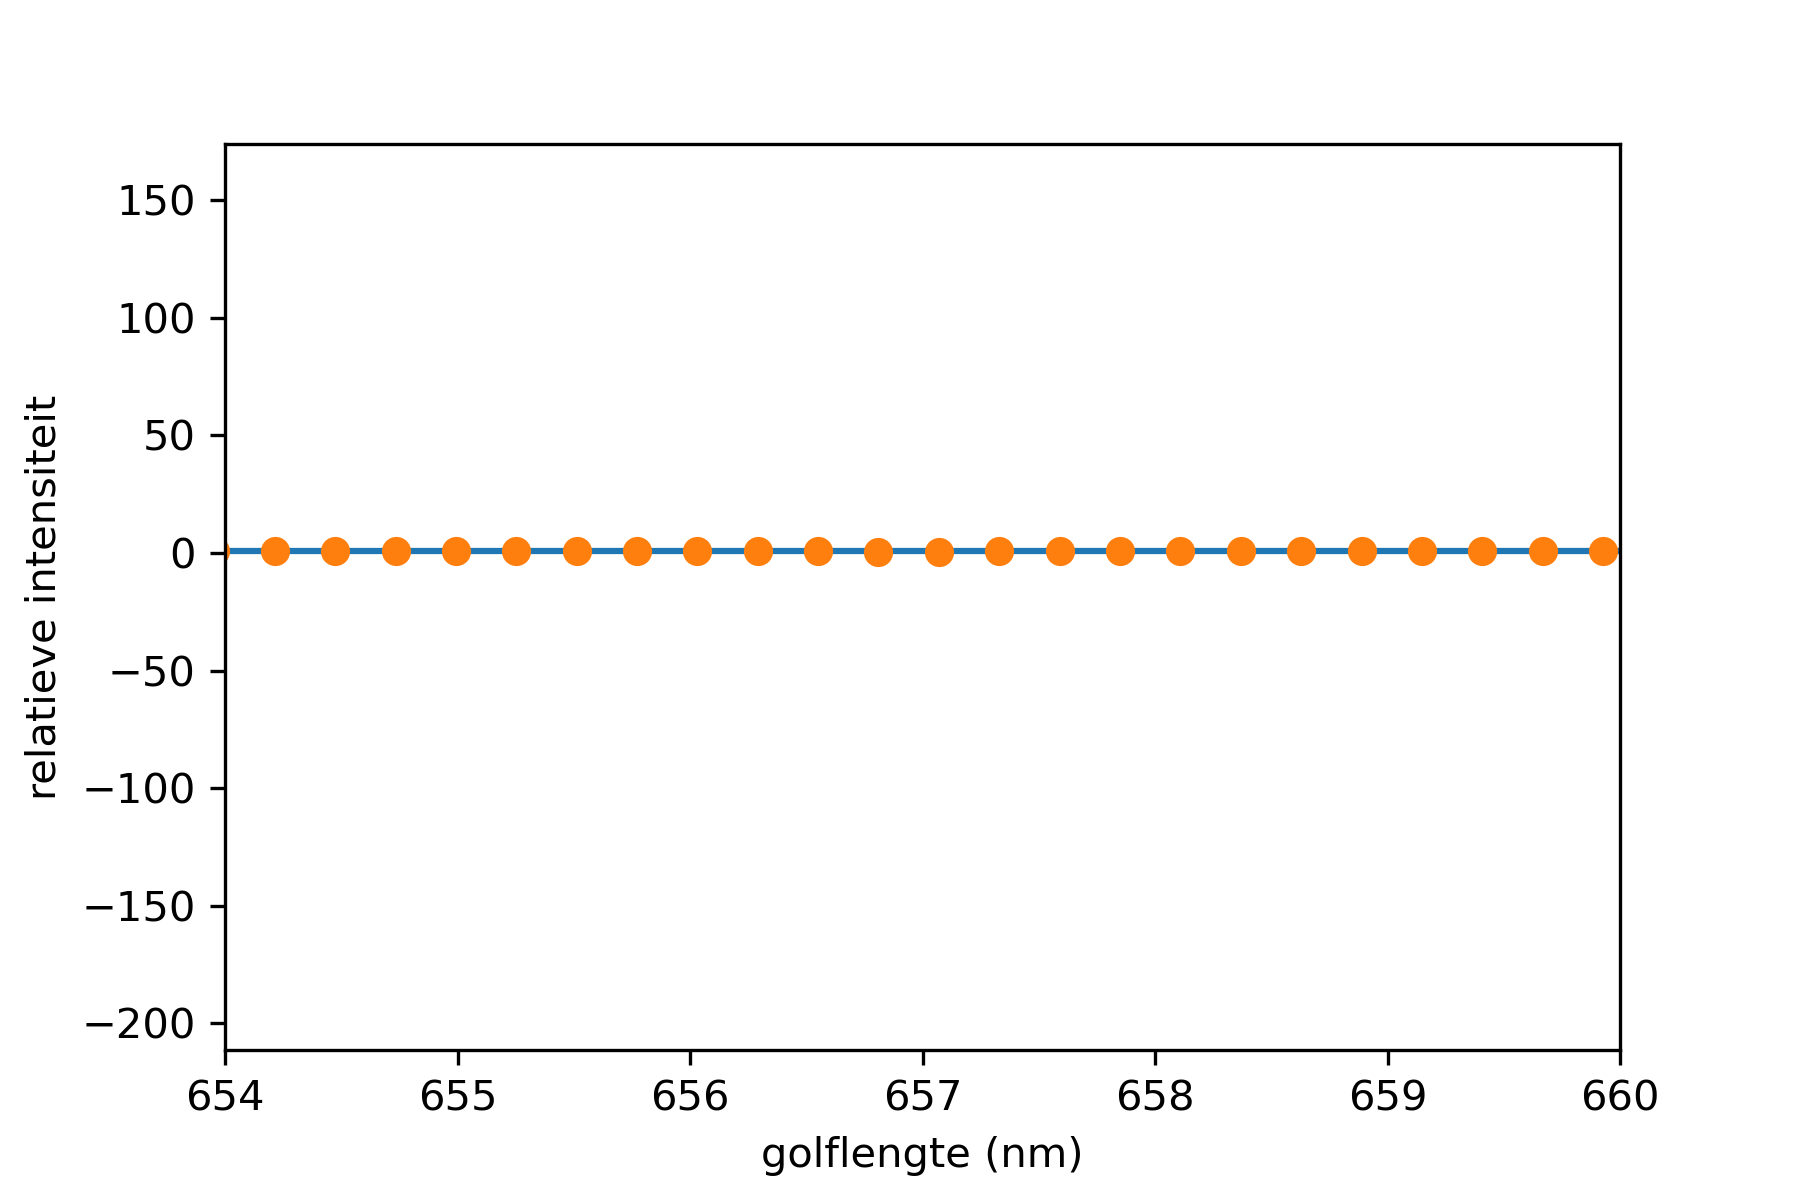
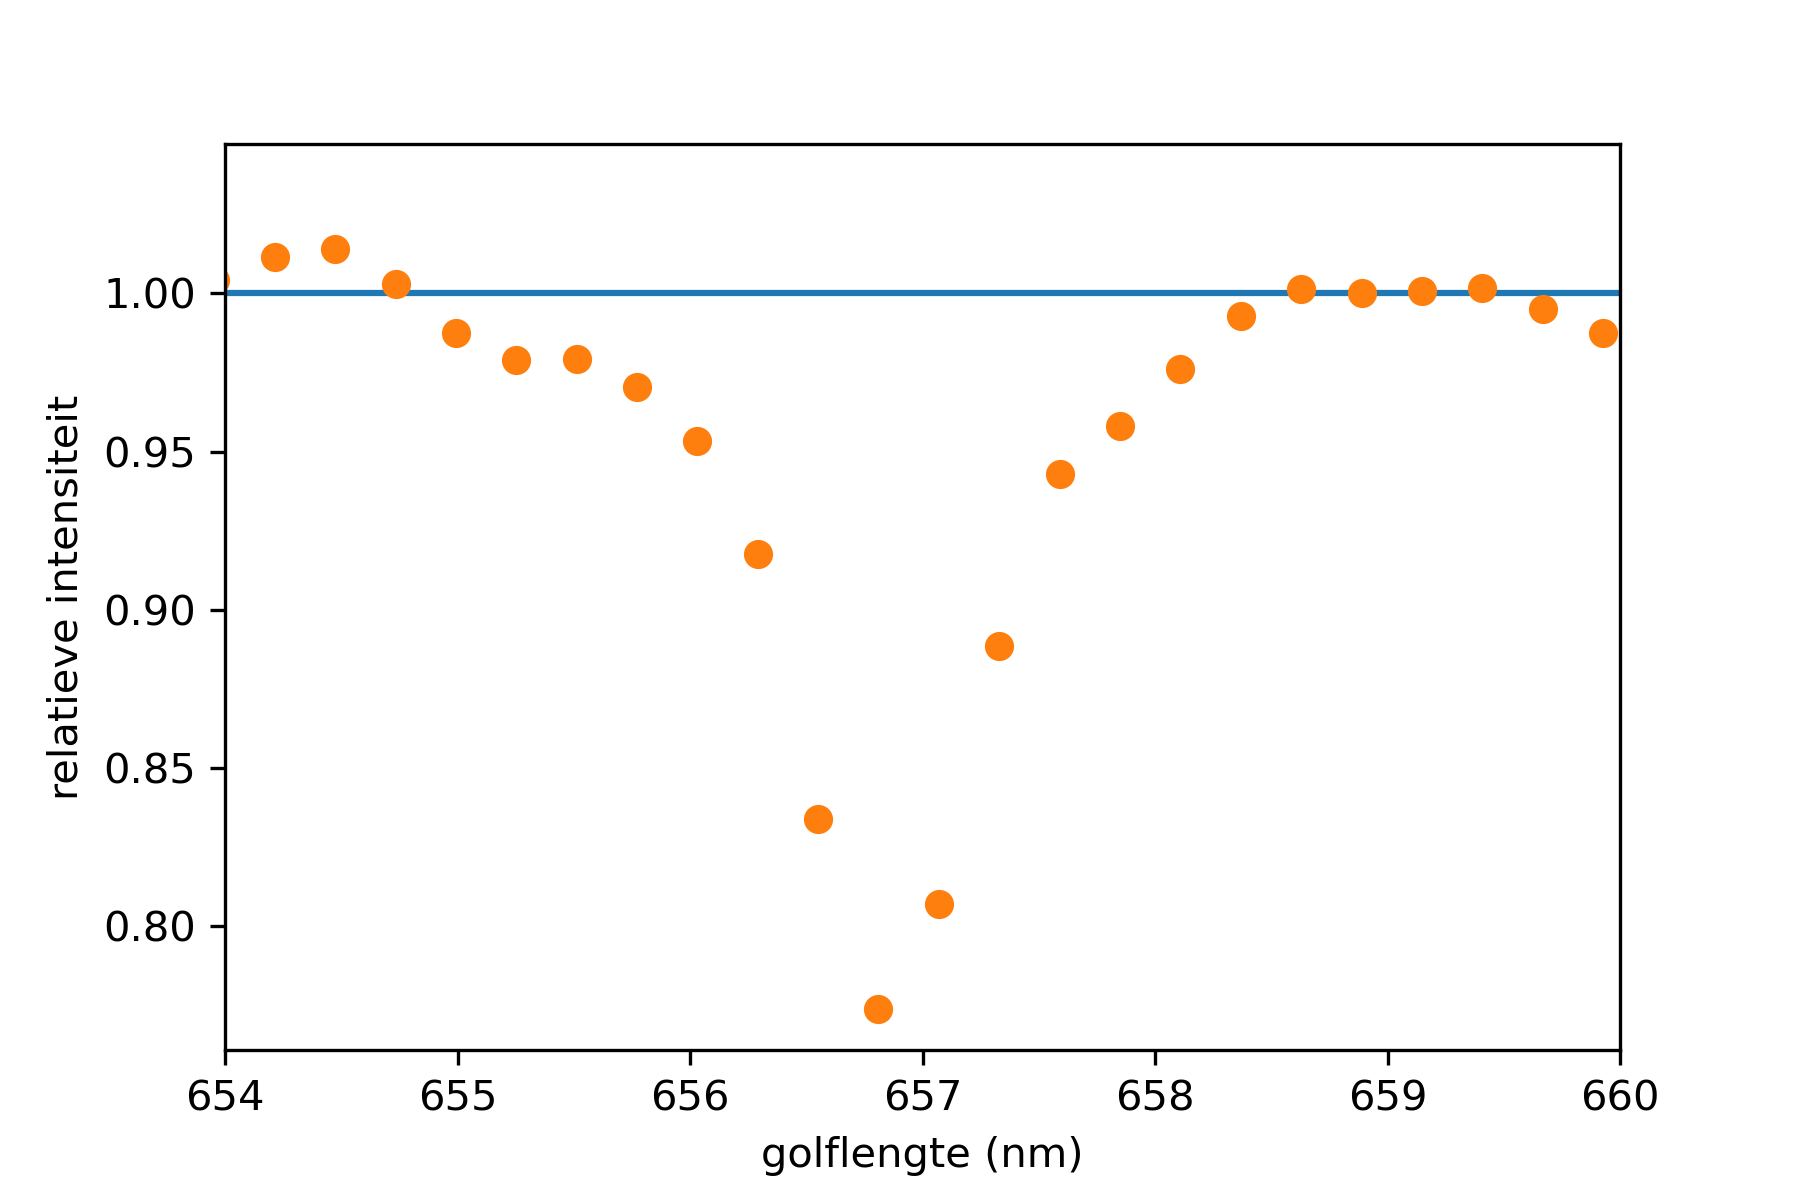
changed range

diff --git a/equivalent_width_method.py b/equivalent_width_method.py
@@ -30,7 +30,7 @@ degrees = str('30')
 measurement=str('002')
 
 meting = Normalize(data_folder, degrees, measurement)
-meting.isolate(0,800)
+meting.isolate(640,670)
 meting.mask_peak(656, 0.5)
 meting.smooth_function(10)
 meting.curve_fit()
@@ -83,11 +83,6 @@ def drop(x,y):
     y_crop = y[bool]
     x_crop = x[bool]
     return x_crop, y_crop
-    
-x, y = drop(x,y)
-plt.figure() 
-plt.plot(x,y,'o')   
-
 def Riemann(x,y):
     pass
 
